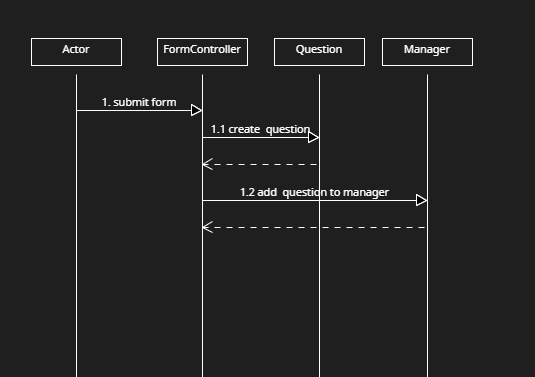
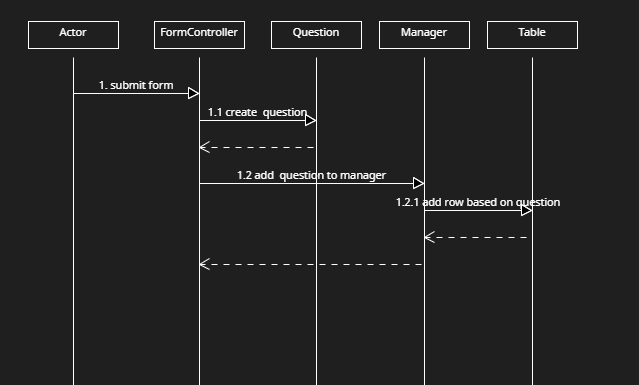
add table to admin

diff --git a/app/admin/table.js b/app/admin/table.js
@@ -1,0 +1,22 @@
+class Table{
+    #manager;
+
+    constructor(manager){
+        this.#manager = manager;
+        const tbody = Gomszab.makeTableWithHeader(['Kérdés', 'válasz1', 'válasz2', 'válasz3', 'válasz4', 'helyes válasz']);
+        this.#manager.setAddCallback(this.#addCallback(tbody))
+    }
+
+    #addCallback(tbodyElement){
+       return (question) => {
+        const tableRow = document.createElement('tr');
+        tbodyElement.appendChild(tableRow);
+        
+        Gomszab.makeCellToRow(tableRow, question.questionText)
+        for(const answer of question.answers){
+            Gomszab.makeCellToRow(tableRow, answer)
+        }
+        Gomszab.makeCellToRow(tableRow, question.rightAnswer)
+      }
+    }
+}

diff --git a/app/admin/index.html b/app/admin/index.html
@@ -4,11 +4,18 @@
      <meta charset="UTF-8">
      <meta name="viewport" content="width=device-width, initial-scale=1.0">
      <title>Admin page</title>
+     <style>
+        table, tr, td, th {
+            border: 1px solid black;
+            border-collapse: collapse;
+        }
+    </style>
  </head>
  <body>
      <script src="../shared/gomszab.js"></script>
      <script src="../shared/question.js"></script>
      <script src="../shared/manager.js"></script>
+     <script src="table.js"></script>
      <script src="form.js"></script>
      <script src="main.js"></script>
  </body>

diff --git a/app/shared/manager.js b/app/shared/manager.js
@@ -11,10 +11,13 @@ class Manager{
 
     #finishCallback;
 
+    #addCallback;
+
     constructor(array = []){
         this.#array = array;
         this.#currentQuestionNumber = 0;
         this.#selectedAnswer={};
+        this.#addCallback = ()=>{};
     }
 
     setNextQuestionCallback(callback){
@@ -29,8 +32,13 @@ class Manager{
         this.#finishCallback = callback;
     }
 
+    setAddCallback(callback){
+        this.#addCallback = callback;
+    }
+
     add(question){
         this.#array.push(question);
+        this.#addCallback(question);
     }
 
     nextQuestion(answer){

diff --git a/app/admin/main.js b/app/admin/main.js
@@ -8,4 +8,5 @@ const formFields = [
   ];
 
   const manager = new Manager();
+  const table = new Table(manager);
   const form = new FormController(manager,formFields);
